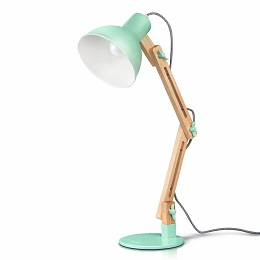
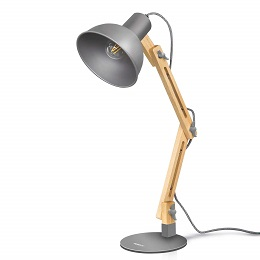
updata

diff --git a/back-to-school/index.html b/back-to-school/index.html
@@ -28,7 +28,7 @@
 								<div class="hidden">
 										<textarea id="copy">CENQG473</textarea>
 										<div class="coupon-15" onclick="copyLink()">
-											<img src="images/Coupon-15%.png" alt="coupon">
+											<img src="images/coupon-15.png" alt="coupon">
 										</div>
 								</div>	
 
@@ -524,7 +524,7 @@
 					<div class="hidden">
 							<textarea id="copy2">Backschl</textarea>
 							<div class="coupon-15" onclick="copyLink2()">
-								<img src="images/Coupon-10%.png" alt="coupon">
+								<img src="images/coupon-10.png" alt="coupon">
 							</div>
 					</div>
 				</div>
@@ -578,7 +578,7 @@
 
 				<div class="sectionItem card">
 					<div class="goods">
-						<a href="https://www.inateck.com/inateck-dl1001g-swing-arm-desk-lamp.html">
+						<a href="https://www.inateck.com/tomons-swing-arm-desk-lamp-dl1001-gray.html">
 							<img src="images/goods24.jpg">
 						</a>
 					</div>
@@ -589,7 +589,7 @@
 						Tomons Wood Swing Arm Desk Lamp-Gray
 					</div>
 					<div class="price">
-						<span class="price1">$28.99</span>
+						<span class="price1">$32.99</span>
 					</div>
 					<div class="button">
 						<a href="https://amzn.to/2OfUbNo">BUT AT AMAZON</a>
@@ -628,7 +628,7 @@
 								<div class="hidden">
 									<textarea id="copy">CENQG473</textarea>
 									<div onclick="copyLink()">
-										<img src="images/Coupon-15%.png" alt="coupon">
+										<img src="images/coupon-15.png" alt="coupon">
 									</div>
 								</div>
 							</div>
@@ -638,7 +638,7 @@
 								<div class="hidden">
 									<textarea id="copy2">Backschl</textarea>
 									<div onclick="copyLink2()">
-										<img src="images/Coupon-10%.png" alt="coupon">
+										<img src="images/coupon-10.png" alt="coupon">
 									</div>
 								</div>
 							</div>
